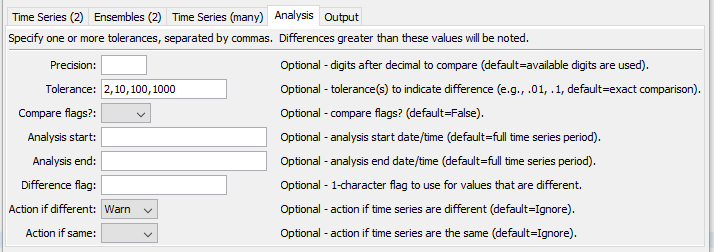
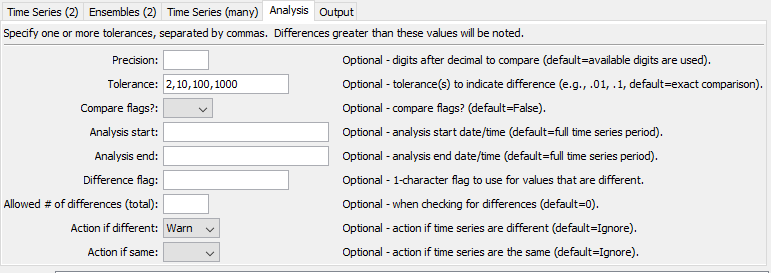
Update CompareTimeSeries documenation for AllowedDiff, issue #82

Changed region(s): [[0.0, 0.0, 1.0, 1.0], [0.4006, 0.8056, 0.8319, 0.8611], [0.3697, 0.8889, 0.8319, 0.9444]]

diff --git a/mkdocs-project/docs/command-ref/CompareTimeSeries/CompareTimeSeries.md b/mkdocs-project/docs/command-ref/CompareTimeSeries/CompareTimeSeries.md
@@ -140,6 +140,7 @@ Command Parameters
 ||`AnalysisStart`|The starting date/time to analyze for differences.  Specify a date/time of appropriate precision for the time series or `OutputStart` to use the output start.|Analyze all available data.|
 ||`AnalysisEnd`|The ending date/time to analyze for differences.  Specify a date/time of appropriate precision for the time series or `OutputEnd` to use the output end.|Analyze all available data.|
 ||`DiffFlag`|Specify as a single character to append a flag to the data flags for the time series.  Each value that is different is flagged in both time series that are compared.  The flag can be displayed by the graphing package.  This is useful for verification processes.  New time series will be created with the original identifier preceded by `Diff_`.|Do not flag data.|
+||`AllowedDiff`| If the number of differences is <= the value, the time series are considered to be the same. | `0` |
 ||`IfDifferent`|Action taken if a difference is detected:<ul><li>`Ignore` - no action is taken</li><li>`Warn` - a warning message is generated</li><li>`Fail` - a failure message is generted</li></ul>| `Ignore` because one of `IfDifferent` or `IsSame` must be specified. |
 ||`IfSame`| Action taken if no differences are detected:<ul><li>`Ignore` - no action is taken</li><li>`Warn` - a warning message is generated</li><li>`Fail` - a failure message is generted</li></ul>| `Ignore` because one of `IfDifferent` or `IsSame` must be specified. |
 |***Output***|`CreateDiffTS`|Indicate whether a time series should be created containing the differences between time series (TS2 – TS1):<ul><li>`False` - do not create difference time series (fastest)</li><li>`IfDifferent` - create difference time series when a difference is detected (next fastest)</li><li>`True` - create difference time series for all time series, even if no differences are found (slowest)</li></ul>  Difference time series are useful to visually evaluate the differences and process the results with other commands.  For example, see raster graphs and the [`ProcessRasterGraph`](../ProcessRasterGraph/ProcessRasterGraph.md). |`False`|

diff --git a/mkdocs-project/docs/appendix-release-notes/release-notes-14.md b/mkdocs-project/docs/appendix-release-notes/release-notes-14.md
@@ -1,6 +1,8 @@
 # TSTool / Release Notes / Version 14 #
 
 * [Known Limitations](#known-limitations)
+* [Changes in Version 14.0.3](#changes-in-version-1403)
+* [Changes in Version 14.0.2](#changes-in-version-1402)
 * [Changes in Version 14.0.1](#changes-in-version-1401)
 * [Changes in Version 14.0.0](#changes-in-version-1400)
 * [Release notes for all versions](release-notes.md)
@@ -12,11 +14,18 @@
 * ![limitation](limitation.png) [14.0.0] Features that were previously available for reading and writing HEC-DSS files are disabled.
 Additional resources are needed to update the software to use 64-bit libraries for HEC-DSS.
 
+## Changes in Version 14.0.3 ##
+
+* ![change](change.png) [14.0.3] Updated the
+[`CompareTimeSeries`](../command-ref/CompareTimeSeries/CompareTimeSeries.md)
+command to have `AllowedDiff` parameter
+* ![change](change.png) [14.0.3] Minor changes to ReclamationHDB commands based on testing
+
 ## Changes in Version 14.0.2 ##
 
 **Maintenance release with changes to address issues and features needed for automated testing.**
 
-* ![bug](bug.png) [14.0.1] Fix bug related to substitute datastore features:
+* ![bug](bug.png) [14.0.2] Fix bug related to substitute datastore features:
     + was causing an exception editing commands that operate on datastores, fixed in the following commands:
         - [`CreateDataStoreDataDictionary`](../command-ref/CreateDataStoreDataDictionary/CreateDataStoreDataDictionary.md)
         - [`DeleteDataStoreTableRows`](../command-ref/DeleteDataStoreTableRows/DeleteDataStoreTableRows.md)

diff --git a/mkdocs-project/docs/appendix-release-notes/release-notes.md b/mkdocs-project/docs/appendix-release-notes/release-notes.md
@@ -35,6 +35,7 @@ TSTool Version History Summary (most current at top)
 
 |**TSTool Version(s)**&nbsp;&nbsp;&nbsp;&nbsp;&nbsp;&nbsp;&nbsp;&nbsp;&nbsp;&nbsp;&nbsp;&nbsp;&nbsp;&nbsp;&nbsp;&nbsp;&nbsp;&nbsp;&nbsp;&nbsp;|**Summary of Major Changes in Version**|**Release Date**|
 |--|--|--|
+|[14.0.3](release-notes-14.md)|Maintenance release for ReclamationHDB release.|2021-11-26|
 |[14.0.2](release-notes-14.md)|Maintenance release, mainly fixes related to automated testing.|2021-11-15|
 |[14.0.1](release-notes-14.md)|Maintenance release, mainly fixes related to automated testing.|2021-10-29|
 |[14.0.0](release-notes-14.md)|First 64-bit Java release.|2021-08-26|

diff --git a/mkdocs-project/docs/index.md b/mkdocs-project/docs/index.md
@@ -12,7 +12,7 @@ This documentation is generally referred to as the **"User Documentation"** in c
 * [About the Open Water Foundation](#about-the-open-water-foundation)
 * [License](#license)
 * [Source Repository on GitHub](#source-repository-on-github)
-* [Release Notes](appendix-release-notes/release-notes-13.md) - **this documentation is for TSTool version 14.0.2**
+* [Release Notes](appendix-release-notes/release-notes-13.md) - **this documentation is for TSTool version 14.0.3**
 
 ----------------
 
